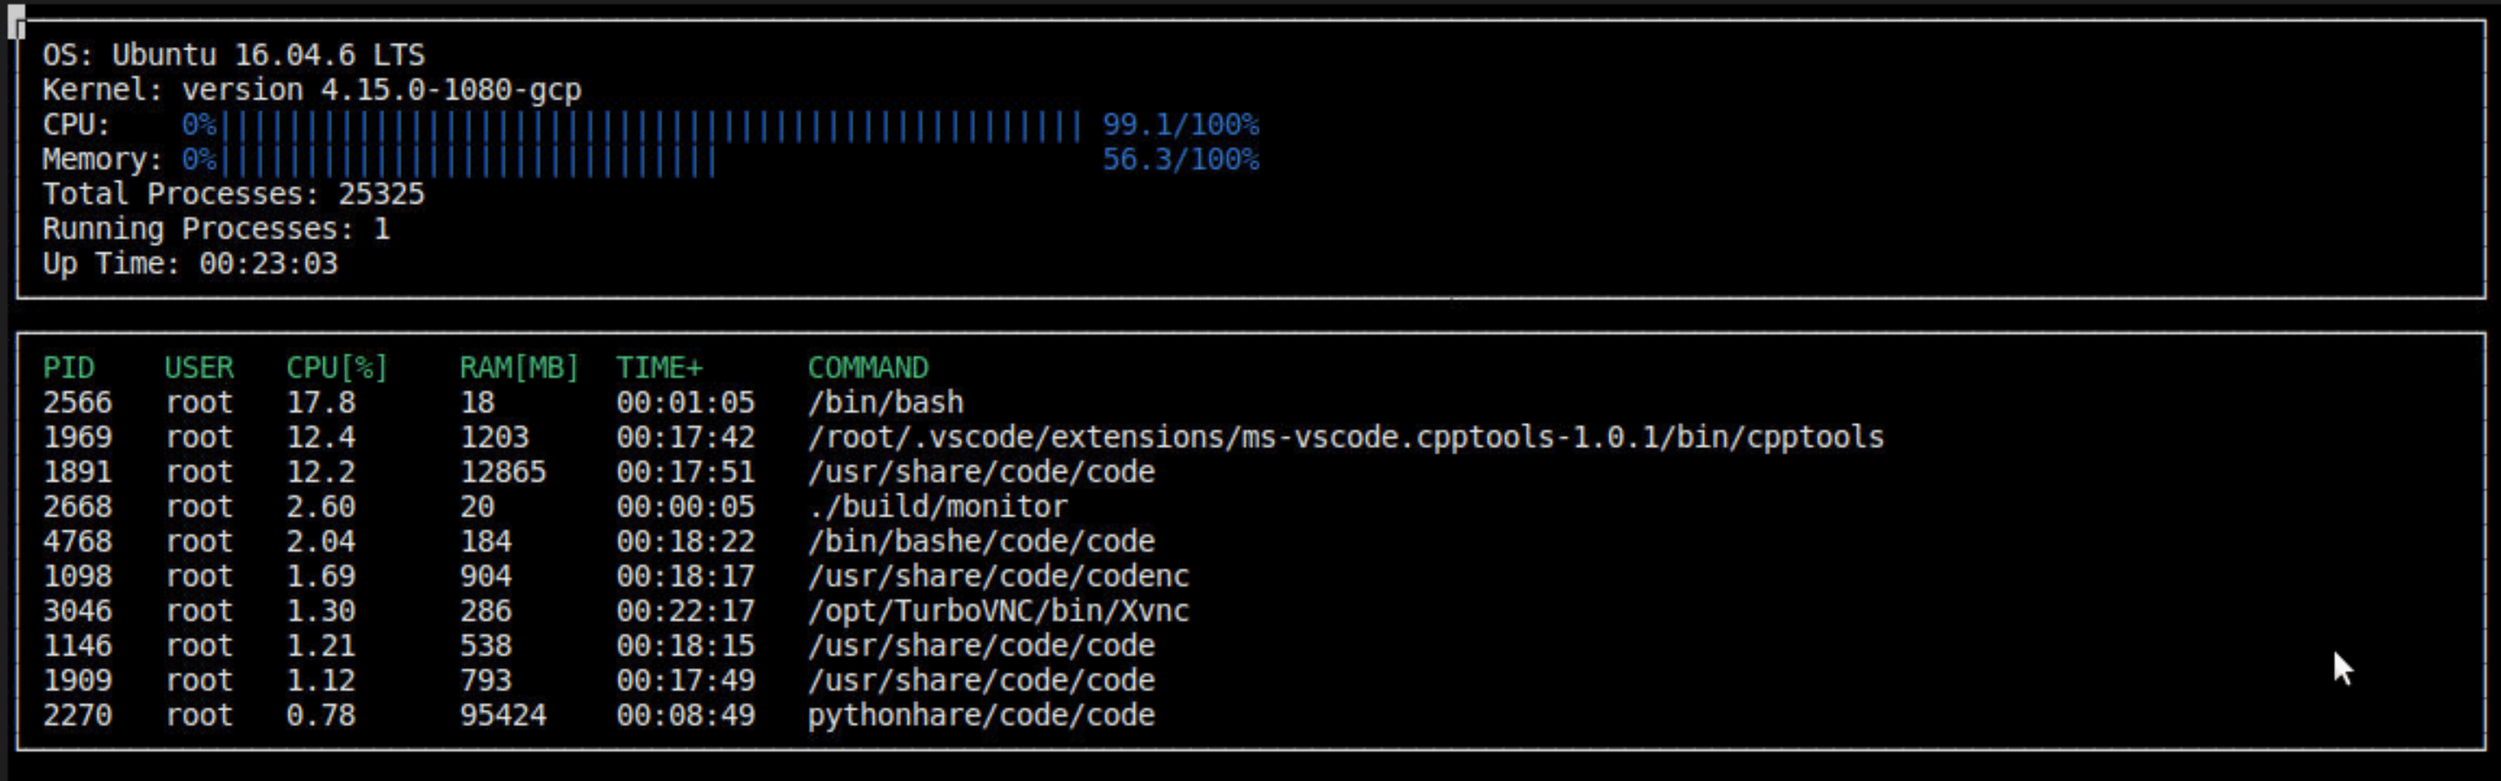
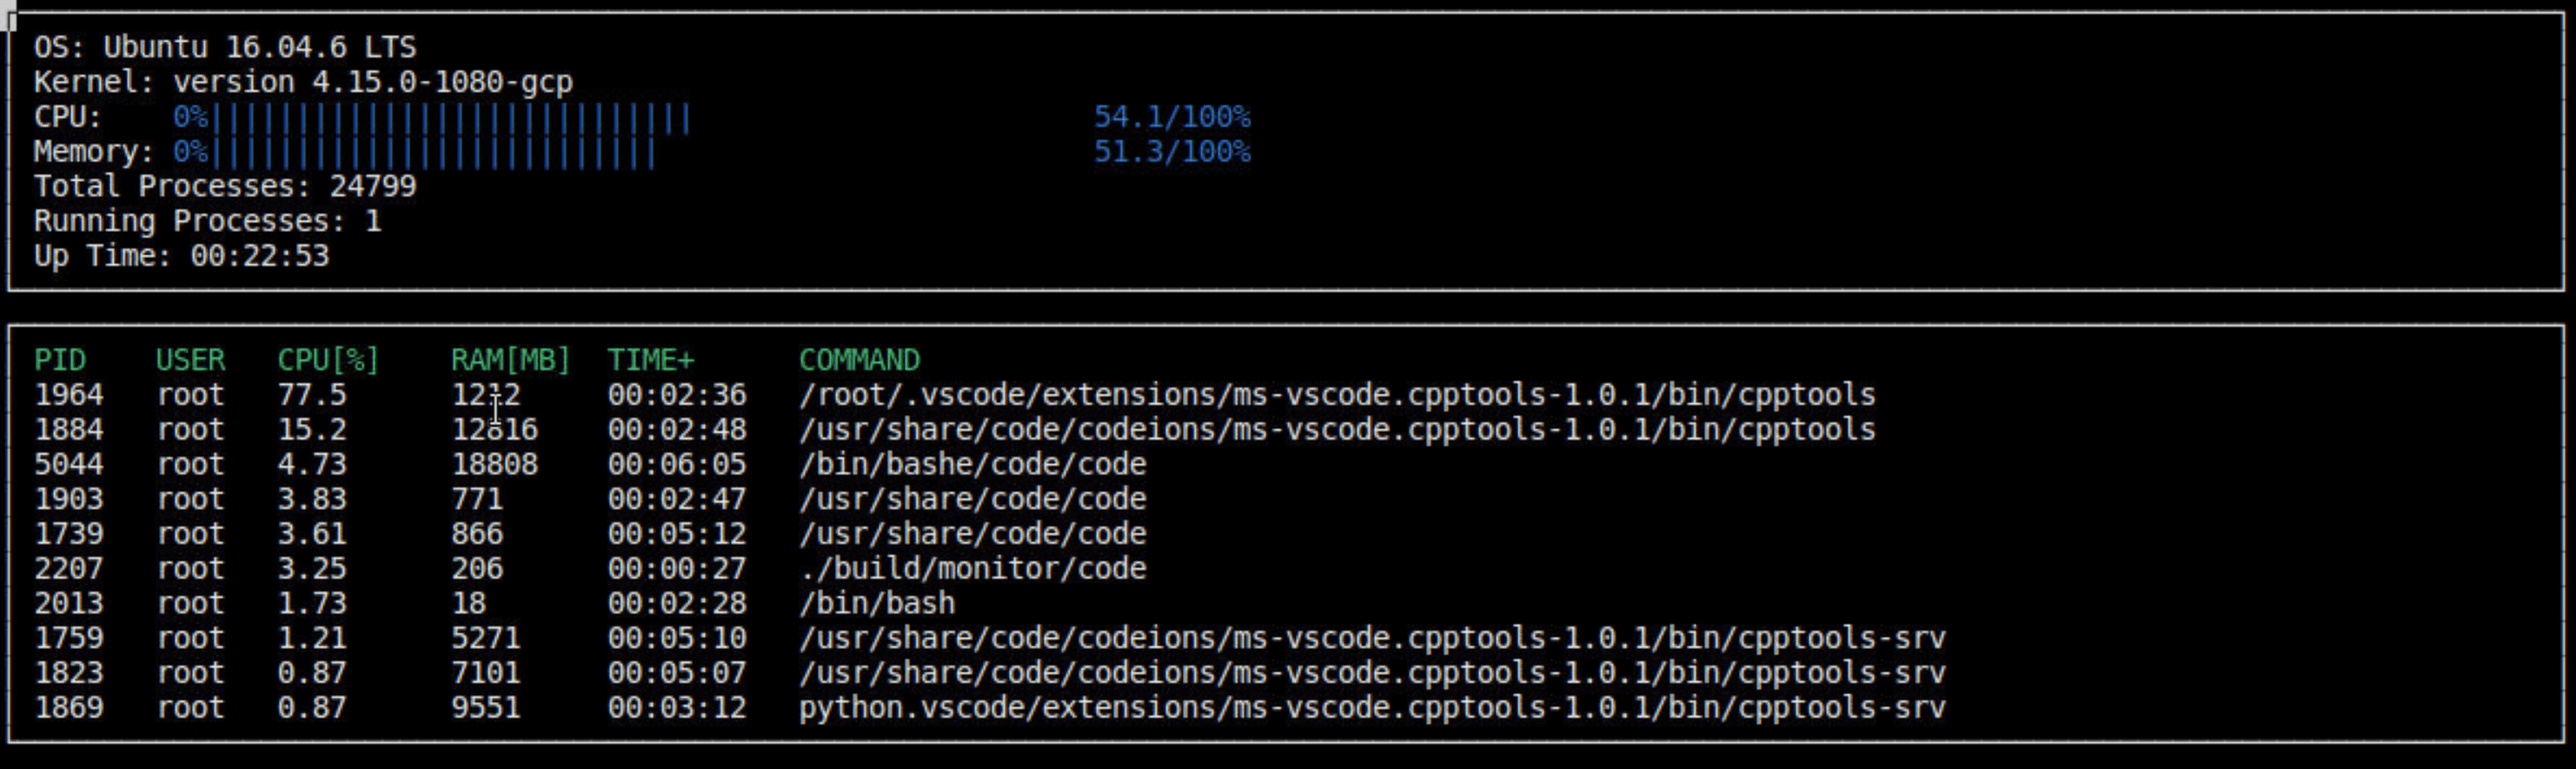
fix: update cpu utilization per comments

Changed region(s): [[0.0, 0.0, 1.0, 0.9763], [0.9277, 0.8542, 0.9587, 0.8847]]

diff --git a/src/processor.cpp b/src/processor.cpp
@@ -16,9 +16,9 @@ float Processor::Utilization() {
         cpu_utilization.push_back(std::stol(value));
     }
     
-    long idle = cpu_utilization[4] + cpu_utilization[5]; //idle + iowait
+    long idle = cpu_utilization[3] + cpu_utilization[4]; //idle + iowait
     //user + nice + system + irq + softirq + steal;
-    long nonidle = cpu_utilization[1] + cpu_utilization[2] + cpu_utilization[3] + cpu_utilization[6] + cpu_utilization[7] + cpu_utilization[8];
+    long nonidle = cpu_utilization[0] + cpu_utilization[1] + cpu_utilization[2] + cpu_utilization[3] + cpu_utilization[4] + cpu_utilization[5];
 
     // Review how to obtain these data
     long pre_idle = 0;

diff --git a/src/system.cpp b/src/system.cpp
@@ -20,13 +20,9 @@ Processor& System::Cpu() { return cpu_; }
 // Return a container composed of the system's processes
 vector<Process>& System::Processes() { 
     vector<int> pids = LinuxParser::Pids();
-    set<int> extant_pids;
     processes_.clear();
     for (auto pid : pids) {
-        if (extant_pids.find(pid) == extant_pids.end()) {
-            processes_.emplace_back(pid);
-            extant_pids.insert(pid);
-        }
+        processes_.emplace_back(pid);
     }
     std::sort(processes_.begin(), processes_.end());
     return processes_; 
